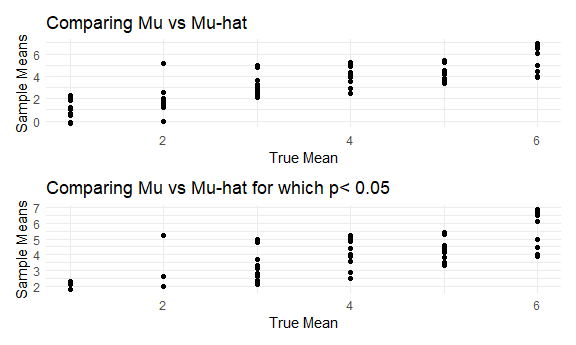
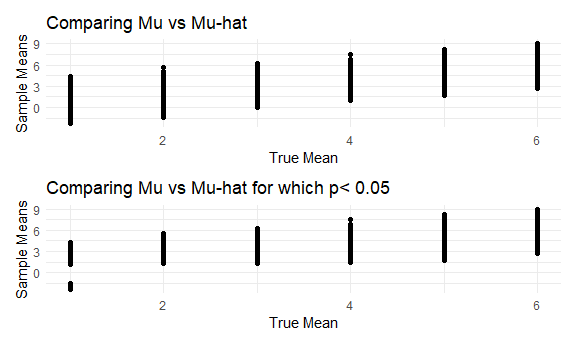
updated the iteration

diff --git a/hw5.md b/hw5.md
@@ -167,7 +167,7 @@ sim_mean_sd = function(mu) {
 
 sim_results_zero_df = 
   expand_grid(
-    iter = 1:10, 
+    iter = 1:5000, 
     mean = 0) %>% 
   mutate(
     estimate_df = 
@@ -175,29 +175,25 @@ sim_results_zero_df =
   ) %>% unnest(estimate_df) %>% 
     select(iter, mean, p.value, estimate)
 
-sim_results_zero_df
+head(sim_results_zero_df)
 ```
 
-    ## # A tibble: 10 × 4
-    ##     iter  mean p.value estimate
-    ##    <int> <dbl>   <dbl>    <dbl>
-    ##  1     1     0  0.629     0.412
-    ##  2     2     0  0.368     0.664
-    ##  3     3     0  0.534     0.551
-    ##  4     4     0  0.487     0.567
-    ##  5     5     0  0.0599   -1.65 
-    ##  6     6     0  0.229     1.19 
-    ##  7     7     0  0.738     0.334
-    ##  8     8     0  0.209    -1.19 
-    ##  9     9     0  0.887     0.122
-    ## 10    10     0  0.472     0.684
+    ## # A tibble: 6 × 4
+    ##    iter  mean p.value estimate
+    ##   <int> <dbl>   <dbl>    <dbl>
+    ## 1     1     0  0.629     0.412
+    ## 2     2     0  0.368     0.664
+    ## 3     3     0  0.534     0.551
+    ## 4     4     0  0.487     0.567
+    ## 5     5     0  0.0599   -1.65 
+    ## 6     6     0  0.229     1.19
 
 Repeat the above for μ={1,2,3,4,5,6},
 
 ``` r
 sim_results_df = 
   expand_grid(
-    iter = 1:10,
+    iter = 1:5000,
     mean = c(1,2,3,4,5,6)) %>% 
   mutate(
     estimate_df = 
@@ -205,23 +201,18 @@ sim_results_df =
   ) %>% unnest(estimate_df) %>% 
   select(iter, mean, p.value, estimate)
 
-sim_results_df
+head(sim_results_df)
 ```
 
-    ## # A tibble: 60 × 4
-    ##     iter  mean     p.value estimate
-    ##    <int> <dbl>       <dbl>    <dbl>
-    ##  1     1     1 0.0221          2.09
-    ##  2     1     2 0.0436          2.00
-    ##  3     1     3 0.0319          2.09
-    ##  4     1     4 0.000000803     5.17
-    ##  5     1     5 0.00269         3.50
-    ##  6     1     6 0.000000613     6.10
-    ##  7     2     1 0.343           1.19
-    ##  8     2     2 0.0684          1.60
-    ##  9     2     3 0.00872         2.34
-    ## 10     2     4 0.000107        4.39
-    ## # … with 50 more rows
+    ## # A tibble: 6 × 4
+    ##    iter  mean       p.value estimate
+    ##   <int> <dbl>         <dbl>    <dbl>
+    ## 1     1     1 0.0865            1.52
+    ## 2     1     2 0.000737          3.11
+    ## 3     1     3 0.0000258         4.01
+    ## 4     1     4 0.000492          3.17
+    ## 5     1     5 0.000211          4.11
+    ## 6     1     6 0.00000000847     6.56
 
 `sim_results_df` is the dataset I will work on.
 
@@ -255,7 +246,7 @@ sim_decision =
     n_rej = n()
   ) %>% 
   mutate(
-    prop = n_rej/10
+    prop = n_rej/5000
   )
 ```
 
@@ -270,12 +261,16 @@ sim_decision
     ## # Groups:   mean [6]
     ##    mean compare_to_alpha n_rej  prop
     ##   <dbl>            <dbl> <int> <dbl>
-    ## 1     1                1     3   0.3
-    ## 2     2                1     3   0.3
-    ## 3     3                1    10   1  
-    ## 4     4                1    10   1  
-    ## 5     5                1    10   1  
-    ## 6     6                1    10   1
+    ## 1     1                1   885 0.177
+    ## 2     2                1  2761 0.552
+    ## 3     3                1  4438 0.888
+    ## 4     4                1  4947 0.989
+    ## 5     5                1  4998 1.00 
+    ## 6     6                1  5000 1
+
+- Note more elegant way may have been to use the denominator as the
+  minimum of the iteration value or add a new column called 5000 for
+  each observation.
 
 Make a plot showing the proportion of times the null was rejected (the
 power of the test) on the y axis and the true value of μ on the x axis.
